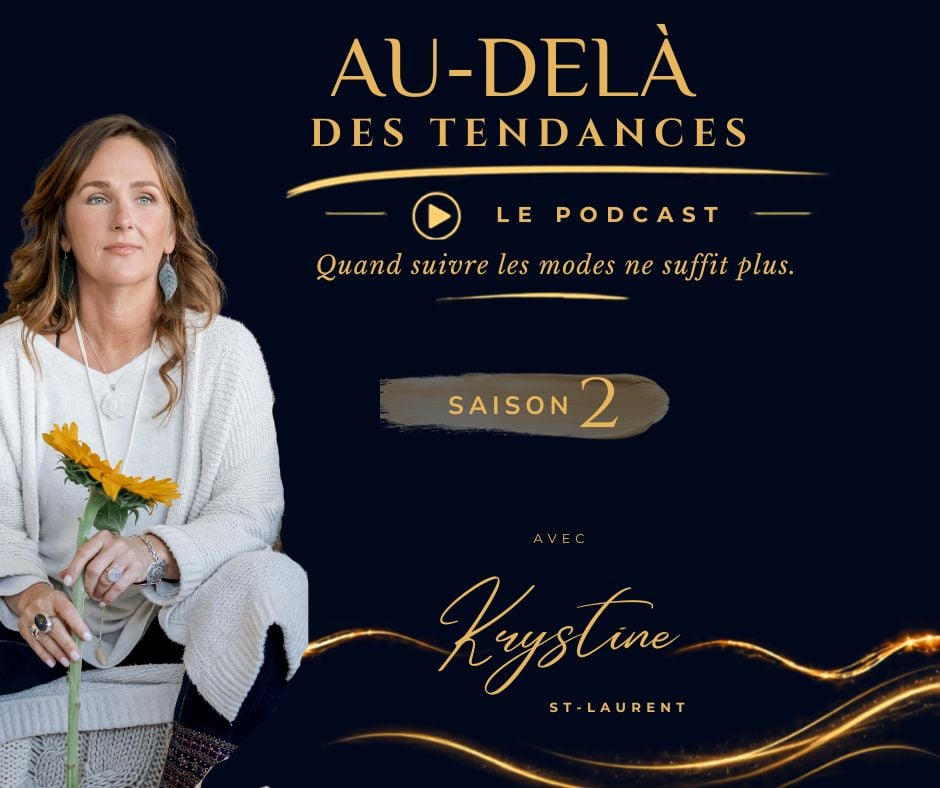
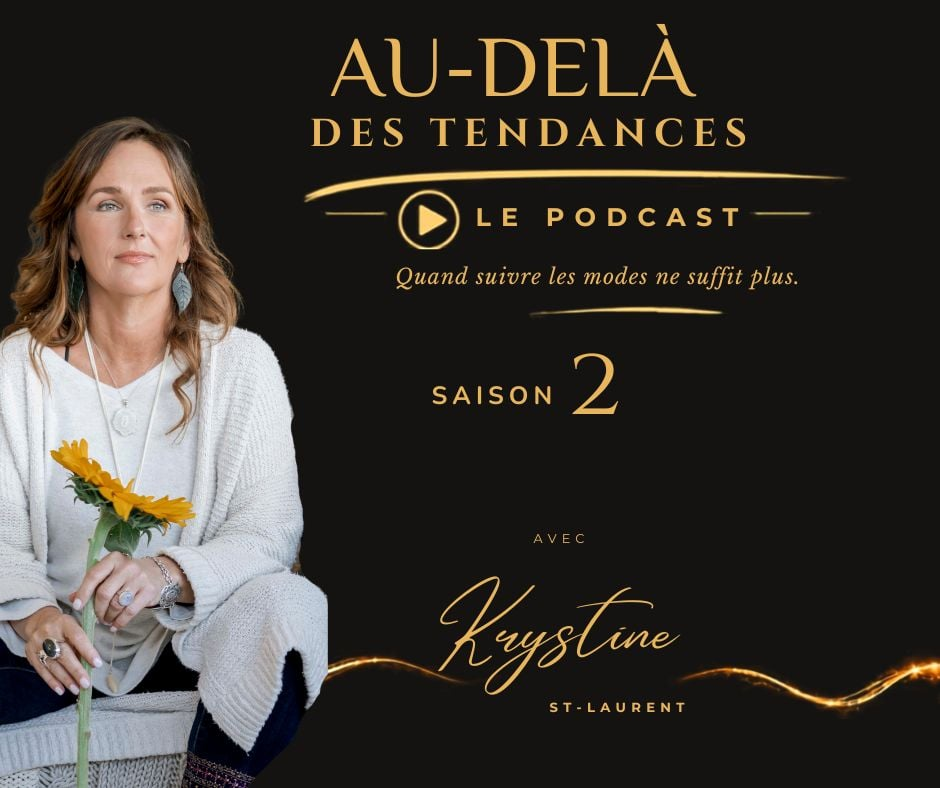
autosave: 2026-08-27 15:20:34

diff --git a/functions/src/newsletter/renderer.ts b/functions/src/newsletter/renderer.ts
@@ -1,6 +1,12 @@
-// Server-side email HTML renderer. Mirrors src/lib/newsletterRenderer.tsx —
-// keep them in sync when adding / tweaking block types. This file has NO
-// React dependency because it runs in a Node Cloud Function.
+// Rendu HTML des infolettres composées dans l'admin (blocs). Aucune
+// dépendance React : ce fichier tourne dans une Cloud Function.
+//
+// Le gabarit reprend celui des courriels du direct (live.ts) : couverture
+// noir + or « Au-delà des tendances » en pièce inline, bandeau noir chaud
+// avec le sujet, corps blanc pour les blocs, signature de Krystine, pied
+// ivoire. Les couleurs viennent du visuel officiel Saison 2 (27 août 2026).
+
+import { PUBLIC_BASE_URL } from './mail';
 
 export type BlockType = 'heading' | 'paragraph' | 'image' | 'button' | 'divider' | 'quote' | 'cta' | 'spacer';
 
@@ -9,14 +15,31 @@ export interface NewsletterBlock {
   content?: Record<string, any>;
 }
 
-const BRAND = {
-  gold: '#D4AF37',
-  royal: '#0B1A36',
-  cream: '#FEFBF4',
-  muted: 'rgba(11,26,54,0.7)',
-  serif: "'Cormorant Garamond', Georgia, serif",
-  sans: "'Inter', -apple-system, BlinkMacSystemFont, sans-serif",
+export const CHARTE = {
+  cream: '#EEE7DB',
+  ink: '#293027',
+  night: '#141311',
+  gold: '#e0b060',
+  goldInk: '#7d6330',
+  serif: "'Cormorant Garamond', Georgia, 'Times New Roman', serif",
+  sans: "'Inter', -apple-system, BlinkMacSystemFont, 'Segoe UI', Helvetica, Arial, sans-serif",
 };
+
+const COVER_URL = `${PUBLIC_BASE_URL}/podcast/live-cover.jpg`;
+const SIGNATURE_URL = 'https://storage.googleapis.com/inspirata/Vata/1%20(1).png';
+
+// Pièces inline : visibles même quand le client bloque les images distantes.
+export function newsletterAttachments() {
+  return [
+    { filename: 'couverture.jpg', href: COVER_URL, cid: 'cover' },
+    { filename: 'signature.png', href: SIGNATURE_URL, cid: 'signature' },
+  ];
+}
+
+// Pour l'aperçu dans l'admin (iframe), les cid: deviennent des URL publiques.
+export function inlineForPreview(html: string): string {
+  return html.replace(/cid:cover/g, COVER_URL).replace(/cid:signature/g, SIGNATURE_URL);
+}
 
 export interface RenderEmailOptions {
   subject: string;
@@ -24,7 +47,7 @@ export interface RenderEmailOptions {
   unsubscribeUrl: string;
   postalAddress: string;
   firstName?: string;
-  brandLogoUrl?: string;
+  showCover?: boolean;   // défaut : vrai
 }
 
 function esc(s: unknown): string {
@@ -39,6 +62,11 @@ function personalize(text: string, firstName?: string): string {
   return text.replace(/\{\{\s*firstName\s*\}\}/g, firstName || '');
 }
 
+// Paragraphes : les retours à la ligne du composeur deviennent des <br />.
+function nl2br(s: string): string {
+  return s.replace(/\r?\n/g, '<br />');
+}
+
 function blockToEmail(block: NewsletterBlock, firstName?: string): string {
   const c = (block.content || {}) as any;
   switch (block.type) {
@@ -47,53 +75,48 @@ function blockToEmail(block: NewsletterBlock, firstName?: string): string {
       const align = c.align === 'center' ? 'center' : 'left';
       const fontSize = level === 1 ? '32px' : level === 2 ? '26px' : '22px';
       const text = personalize(esc(c.text || ''), firstName);
-      return `<tr><td align="${align}" style="padding:18px 0;font-family:${BRAND.serif};font-size:${fontSize};line-height:1.15;color:${BRAND.royal};font-weight:500;">${text}</td></tr>`;
+      return `<tr><td align="${align}" style="padding:18px 0 10px;font-family:${CHARTE.serif};font-size:${fontSize};line-height:1.15;color:${CHARTE.ink};font-weight:500;">${text}</td></tr>`;
     }
     case 'paragraph': {
       const align = c.align === 'center' ? 'center' : 'left';
-      const text = personalize(esc(c.text || ''), firstName);
-      return `<tr><td align="${align}" style="padding:8px 0;font-family:${BRAND.sans};font-size:15px;line-height:1.65;color:${BRAND.muted};">${text}</td></tr>`;
+      const text = nl2br(personalize(esc(c.text || ''), firstName));
+      return `<tr><td align="${align}" style="padding:0 0 18px;font-family:${CHARTE.sans};font-size:16px;line-height:1.75;color:${CHARTE.ink};">${text}</td></tr>`;
     }
     case 'image': {
       if (!c.url) return '';
       const caption = c.caption
-        ? `<tr><td align="center" style="padding:8px 0;font-family:${BRAND.sans};font-size:11px;letter-spacing:0.2em;text-transform:uppercase;color:${BRAND.muted};">${esc(c.caption)}</td></tr>`
+        ? `<tr><td align="center" style="padding:8px 0 4px;font-family:${CHARTE.sans};font-size:10px;letter-spacing:0.28em;text-transform:uppercase;color:${CHARTE.goldInk};">${esc(c.caption)}</td></tr>`
         : '';
-      return `<tr><td style="padding:16px 0;"><img src="${esc(c.url)}" alt="${esc(c.alt || '')}" style="display:block;width:100%;max-width:560px;border-radius:16px;" /></td></tr>${caption}`;
+      return `<tr><td style="padding:10px 0 12px;"><img src="${esc(c.url)}" alt="${esc(c.alt || '')}" style="display:block;width:100%;max-width:520px;height:auto;border-radius:15px;" /></td></tr>${caption}`;
     }
     case 'button': {
       const primary = c.variant !== 'secondary';
-      const bg = primary ? BRAND.royal : 'transparent';
-      const fg = primary ? '#ffffff' : BRAND.royal;
-      const border = primary ? BRAND.royal : 'rgba(11,26,54,0.2)';
-      return `<tr><td align="center" style="padding:20px 0;">
-        <a href="${esc(c.href || '#')}" target="_blank"
-           style="display:inline-block;background:${bg};color:${fg};border:1px solid ${border};
-                  font-family:${BRAND.sans};font-size:11px;font-weight:700;letter-spacing:0.25em;
-                  text-transform:uppercase;text-decoration:none;padding:14px 28px;border-radius:999px;">
-          ${esc(c.label || 'En savoir plus')}
-        </a>
+      const style = primary
+        ? `background:${CHARTE.gold};color:${CHARTE.night};`
+        : `border:1px solid ${CHARTE.gold};color:${CHARTE.goldInk};`;
+      return `<tr><td style="padding:6px 0 22px;">
+        <a href="${esc(c.href || '#')}" target="_blank" style="display:inline-block;padding:15px 28px;border-radius:999px;font-family:${CHARTE.sans};font-size:12px;font-weight:700;letter-spacing:0.18em;text-transform:uppercase;text-decoration:none;${style}">${esc(c.label || 'En savoir plus')}</a>
       </td></tr>`;
     }
     case 'divider':
-      return `<tr><td style="padding:16px 0;"><div style="height:1px;background:linear-gradient(90deg,transparent,${BRAND.gold},transparent);"></div></td></tr>`;
+      return `<tr><td style="padding:10px 0 24px;"><div style="height:1px;width:64px;background:${CHARTE.gold};"></div></td></tr>`;
     case 'quote':
-      return `<tr><td style="padding:20px 0;">
+      return `<tr><td style="padding:6px 0 24px;">
         <table role="presentation" width="100%" cellpadding="0" cellspacing="0"><tr>
-          <td style="border-left:2px solid ${BRAND.gold};padding-left:18px;font-family:${BRAND.serif};font-style:italic;font-size:18px;line-height:1.5;color:${BRAND.royal};">
-            «&nbsp;${esc(c.text || '')}&nbsp;»
-            ${c.attribution ? `<div style="margin-top:10px;font-family:${BRAND.sans};font-style:normal;font-size:11px;letter-spacing:0.2em;text-transform:uppercase;color:${BRAND.gold};">— ${esc(c.attribution)}</div>` : ''}
+          <td style="border-left:2px solid ${CHARTE.gold};padding-left:18px;font-family:${CHARTE.serif};font-size:20px;line-height:1.45;color:${CHARTE.goldInk};">
+            «&nbsp;${personalize(esc(c.text || ''), firstName)}&nbsp;»
+            ${c.attribution ? `<div style="margin-top:10px;font-family:${CHARTE.sans};font-size:10px;letter-spacing:0.28em;text-transform:uppercase;color:${CHARTE.goldInk};">${esc(c.attribution)}</div>` : ''}
           </td>
         </tr></table>
       </td></tr>`;
     case 'cta':
-      return `<tr><td style="padding:20px 0;">
-        <table role="presentation" width="100%" cellpadding="0" cellspacing="0" style="background:${BRAND.royal};border-radius:16px;border:1px solid rgba(212,175,55,0.2);">
-          <tr><td align="center" style="padding:32px 24px;color:#ffffff;">
-            ${c.eyebrow ? `<div style="font-family:${BRAND.sans};font-size:10px;letter-spacing:0.3em;text-transform:uppercase;color:${BRAND.gold};margin-bottom:10px;font-weight:700;">${esc(c.eyebrow)}</div>` : ''}
-            ${c.title ? `<div style="font-family:${BRAND.serif};font-size:26px;line-height:1.2;margin-bottom:10px;">${esc(c.title)}</div>` : ''}
-            ${c.body ? `<div style="font-family:${BRAND.sans};font-size:14px;line-height:1.6;color:rgba(255,255,255,0.75);margin-bottom:22px;">${esc(c.body)}</div>` : ''}
-            ${(c.href && c.buttonLabel) ? `<a href="${esc(c.href)}" target="_blank" style="display:inline-block;background:${BRAND.gold};color:${BRAND.royal};font-family:${BRAND.sans};font-size:11px;font-weight:700;letter-spacing:0.25em;text-transform:uppercase;text-decoration:none;padding:14px 28px;border-radius:999px;">${esc(c.buttonLabel)}</a>` : ''}
+      return `<tr><td style="padding:6px 0 26px;">
+        <table role="presentation" width="100%" cellpadding="0" cellspacing="0" style="background:${CHARTE.night};border-radius:15px;">
+          <tr><td style="padding:30px 32px;">
+            ${c.eyebrow ? `<div style="font-family:${CHARTE.sans};font-size:11px;letter-spacing:0.3em;text-transform:uppercase;color:${CHARTE.gold};margin-bottom:12px;font-weight:600;">${esc(c.eyebrow)}</div>` : ''}
+            ${c.title ? `<div style="font-family:${CHARTE.serif};font-size:28px;line-height:1.1;color:${CHARTE.cream};margin-bottom:12px;">${esc(c.title)}</div>` : ''}
+            ${c.body ? `<div style="font-family:${CHARTE.sans};font-size:14px;line-height:1.7;color:rgba(238,231,219,0.7);margin-bottom:22px;">${nl2br(esc(c.body))}</div>` : ''}
+            ${(c.href && c.buttonLabel) ? `<a href="${esc(c.href)}" target="_blank" style="display:inline-block;background:${CHARTE.gold};color:${CHARTE.night};font-family:${CHARTE.sans};font-size:12px;font-weight:700;letter-spacing:0.18em;text-transform:uppercase;text-decoration:none;padding:15px 28px;border-radius:999px;">${esc(c.buttonLabel)}</a>` : ''}
           </td></tr>
         </table>
       </td></tr>`;
@@ -108,34 +131,40 @@ function blockToEmail(block: NewsletterBlock, firstName?: string): string {
 
 export function renderEmailHtml(blocks: NewsletterBlock[], opts: RenderEmailOptions): string {
   const blockRows = blocks.map(b => blockToEmail(b, opts.firstName)).join('\n');
-  const preheader = opts.preheader
-    ? `<div style="display:none;max-height:0;overflow:hidden;opacity:0;mso-hide:all;font-size:1px;color:transparent;line-height:1px;">${esc(opts.preheader)}</div>`
-    : '';
-  const logo = opts.brandLogoUrl
-    ? `<tr><td align="center" style="padding:24px 0 8px;"><img src="${esc(opts.brandLogoUrl)}" alt="Inspirata" style="height:48px;width:auto;display:inline-block;" /></td></tr>`
-    : '';
+  const showCover = opts.showCover !== false;
 
   return `<!doctype html>
 <html lang="fr">
-<head>
-  <meta charset="utf-8" />
-  <meta name="viewport" content="width=device-width,initial-scale=1" />
-  <title>${esc(opts.subject)}</title>
-</head>
-<body style="margin:0;padding:0;background:${BRAND.cream};">
-  ${preheader}
-  <table role="presentation" width="100%" cellpadding="0" cellspacing="0" style="background:${BRAND.cream};padding:32px 16px;">
+<head><meta charset="utf-8" /><meta name="viewport" content="width=device-width,initial-scale=1" /><title>${esc(opts.subject)}</title></head>
+<body style="margin:0;padding:0;background:${CHARTE.cream};">
+  <div style="display:none;max-height:0;overflow:hidden;opacity:0;mso-hide:all;font-size:1px;color:transparent;line-height:1px;">${esc(opts.preheader || '')}</div>
+  <table role="presentation" width="100%" cellpadding="0" cellspacing="0" style="background:${CHARTE.cream};padding:36px 16px;">
     <tr><td align="center">
-      <table role="presentation" width="600" cellpadding="0" cellspacing="0" style="max-width:600px;background:#ffffff;border-radius:24px;overflow:hidden;box-shadow:0 4px 24px rgba(11,26,54,0.08);">
-        ${logo}
-        <tr><td style="padding:16px 36px 40px;">
+      <table role="presentation" width="600" cellpadding="0" cellspacing="0" style="max-width:600px;">
+
+        ${showCover ? `<tr><td style="padding:0;border-radius:15px 15px 0 0;overflow:hidden;background:${CHARTE.night};">
+          <img src="cid:cover" width="600" alt="Au-delà des tendances, avec Krystine St-Laurent" style="display:block;width:100%;max-width:600px;height:auto;border-radius:15px 15px 0 0;" />
+        </td></tr>` : ''}
+
+        <tr><td style="background:${CHARTE.night};padding:30px 40px 28px;${showCover ? '' : 'border-radius:15px 15px 0 0;'}">
           <table role="presentation" width="100%" cellpadding="0" cellspacing="0">
-            ${blockRows}
+            <tr><td style="padding:0 0 18px;font-family:${CHARTE.sans};font-size:11px;letter-spacing:0.3em;text-transform:uppercase;color:${CHARTE.gold};font-weight:600;">Infolettre</td></tr>
+            <tr><td style="padding:0 0 20px;font-family:${CHARTE.serif};font-size:34px;line-height:1.08;color:${CHARTE.cream};font-weight:500;">${esc(opts.subject)}</td></tr>
+            <tr><td><div style="height:1px;width:64px;background:${CHARTE.gold};"></div></td></tr>
           </table>
         </td></tr>
-        <tr><td style="padding:24px 36px;border-top:1px solid rgba(11,26,54,0.08);font-family:${BRAND.sans};font-size:11px;line-height:1.6;color:rgba(11,26,54,0.5);">
+
+        <tr><td style="background:#ffffff;padding:40px 40px 14px;border-left:1px solid rgba(41,48,39,0.08);border-right:1px solid rgba(41,48,39,0.08);">
+          <table role="presentation" width="100%" cellpadding="0" cellspacing="0">
+            ${blockRows}
+            <tr><td style="padding:6px 0 8px;"><img src="cid:signature" width="170" alt="Krystine St-Laurent" style="display:block;width:170px;height:auto;" /></td></tr>
+          </table>
+        </td></tr>
+
+        <tr><td style="background:${CHARTE.cream};padding:26px 40px 8px;border-radius:0 0 15px 15px;border:1px solid rgba(41,48,39,0.08);border-top:0;font-family:${CHARTE.sans};font-size:11px;line-height:1.6;color:rgba(41,48,39,0.6);">
+          <div style="font-family:${CHARTE.sans};font-size:10px;letter-spacing:0.28em;text-transform:uppercase;color:${CHARTE.goldInk};padding-bottom:10px;">Nourrir et soigner &middot; Corps et conscience &middot; Science et sagesses</div>
           <div style="margin-bottom:8px;">${esc(opts.postalAddress)}</div>
-          <div><a href="${esc(opts.unsubscribeUrl)}" style="color:${BRAND.gold};text-decoration:underline;">Se désabonner</a> · <a href="https://www.krystinestlaurent.ca/politique-de-confidentialite" style="color:${BRAND.gold};text-decoration:underline;">Politique de confidentialité</a></div>
+          <div style="padding-bottom:18px;"><a href="${esc(opts.unsubscribeUrl)}" style="color:${CHARTE.goldInk};text-decoration:underline;">Se désabonner</a> · <a href="${PUBLIC_BASE_URL}/politique-de-confidentialite" style="color:${CHARTE.goldInk};text-decoration:underline;">Politique de confidentialité</a></div>
         </td></tr>
       </table>
     </td></tr>
@@ -155,18 +184,18 @@ export function renderEmailText(blocks: NewsletterBlock[], opts: RenderEmailOpti
         if (c.text) lines.push(personalize(c.text, opts.firstName));
         break;
       case 'button':
-        if (c.label && c.href) lines.push(`${c.label}: ${c.href}`);
+        if (c.label && c.href) lines.push(`${c.label} : ${c.href}`);
         break;
       case 'cta':
         if (c.title) lines.push(c.title);
-        if (c.body)  lines.push(c.body);
-        if (c.href && c.buttonLabel) lines.push(`${c.buttonLabel}: ${c.href}`);
+        if (c.body) lines.push(c.body);
+        if (c.href && c.buttonLabel) lines.push(`${c.buttonLabel} : ${c.href}`);
         break;
       case 'divider':
         lines.push('---');
         break;
     }
   }
-  lines.push('', opts.postalAddress, `Se désabonner: ${opts.unsubscribeUrl}`);
+  lines.push('Krystine St-Laurent', '', opts.postalAddress, `Se désabonner : ${opts.unsubscribeUrl}`);
   return lines.join('\n\n');
 }

diff --git a/functions/src/newsletter/live.ts b/functions/src/newsletter/live.ts
@@ -44,8 +44,9 @@ const TZ = 'America/Toronto';
 const CHARTE = {
   cream: '#EEE7DB',
   ink: '#293027',
-  night: '#161311',
-  gold: '#c8a86a',
+  night: '#141311',
+  gold: '#e0b060',
+  goldInk: '#7d6330',
   amber: '#BA7B39',
   copper: '#8B4A2F',
   serif: "'Cormorant Garamond', Georgia, 'Times New Roman', serif",
@@ -177,7 +178,7 @@ export function renderLiveHtml(m: Mail, opts: { unsubscribeUrl: string; postalAd
   const p = (t: string) =>
     `<tr><td style="padding:0 0 18px;font-family:${CHARTE.sans};font-size:16px;line-height:1.75;color:${CHARTE.ink};">${esc(t)}</td></tr>`;
   const btn = (c: { label: string; url: string }, primary: boolean) =>
-    `<a href="${esc(c.url)}" style="display:inline-block;margin:0 10px 10px 0;padding:15px 28px;border-radius:999px;font-family:${CHARTE.sans};font-size:12px;font-weight:700;letter-spacing:0.18em;text-transform:uppercase;text-decoration:none;${primary ? `background:${CHARTE.amber};color:${CHARTE.ink};` : `border:1px solid ${CHARTE.amber};color:${CHARTE.copper};`}">${esc(c.label)}</a>`;
+    `<a href="${esc(c.url)}" style="display:inline-block;margin:0 10px 10px 0;padding:15px 28px;border-radius:999px;font-family:${CHARTE.sans};font-size:12px;font-weight:700;letter-spacing:0.18em;text-transform:uppercase;text-decoration:none;${primary ? `background:${CHARTE.gold};color:${CHARTE.night};` : `border:1px solid ${CHARTE.gold};color:${CHARTE.goldInk};`}">${esc(c.label)}</a>`;
 
   const ev = opts.ev;
   const start = ev ? ev.startsAt.toDate() : null;
@@ -186,7 +187,7 @@ export function renderLiveHtml(m: Mail, opts: { unsubscribeUrl: string; postalAd
   const heureFr = start ? fmtTime(start, 'Europe/Paris') : '';
   const cell = (label: string, big: string, small?: string) =>
     `<td valign="top" style="padding:0 24px 0 0;">
-      <div style="font-family:${CHARTE.sans};font-size:10px;letter-spacing:0.28em;text-transform:uppercase;color:${CHARTE.amber};padding-bottom:6px;">${esc(label)}</div>
+      <div style="font-family:${CHARTE.sans};font-size:10px;letter-spacing:0.28em;text-transform:uppercase;color:${CHARTE.gold};padding-bottom:6px;">${esc(label)}</div>
       <div style="font-family:${CHARTE.serif};font-size:24px;line-height:1.15;color:${CHARTE.cream};">${esc(big)}</div>
       ${small ? `<div style="font-family:${CHARTE.serif};font-size:17px;line-height:1.3;color:rgba(238,231,219,0.65);">${esc(small)}</div>` : ''}
     </td>`;
@@ -201,16 +202,16 @@ export function renderLiveHtml(m: Mail, opts: { unsubscribeUrl: string; postalAd
       <table role="presentation" width="600" cellpadding="0" cellspacing="0" style="max-width:600px;">
 
         <!-- Couverture du podcast (carte du moodboard KSL) -->
-        <tr><td style="padding:0;border-radius:15px 15px 0 0;overflow:hidden;background:#1c1a17;">
+        <tr><td style="padding:0;border-radius:15px 15px 0 0;overflow:hidden;background:${CHARTE.night};">
           <img src="cid:cover" width="600" alt="Au-delà des tendances, le podcast avec Krystine St-Laurent" style="display:block;width:100%;max-width:600px;height:auto;border-radius:15px 15px 0 0;" />
         </td></tr>
 
-        <!-- Bandeau vert profond : le rendez-vous -->
+        <!-- Bandeau noir chaud + or (visuel Saison 2) : le rendez-vous -->
         <tr><td style="background:${CHARTE.night};padding:30px 40px 28px;">
           <table role="presentation" width="100%" cellpadding="0" cellspacing="0">
-            <tr><td style="padding:0 0 18px;font-family:${CHARTE.sans};font-size:11px;letter-spacing:0.3em;text-transform:uppercase;color:${CHARTE.amber};font-weight:600;">&#9679;&nbsp; En direct sur YouTube</td></tr>
+            <tr><td style="padding:0 0 18px;font-family:${CHARTE.sans};font-size:11px;letter-spacing:0.3em;text-transform:uppercase;color:${CHARTE.gold};font-weight:600;">&#9679;&nbsp; En direct sur YouTube</td></tr>
             <tr><td style="padding:0 0 20px;font-family:${CHARTE.serif};font-size:34px;line-height:1.08;color:${CHARTE.cream};font-weight:500;">${esc(m.subject)}</td></tr>
-            <tr><td style="padding:0 0 22px;"><div style="height:1px;width:64px;background:${CHARTE.amber};"></div></td></tr>
+            <tr><td style="padding:0 0 22px;"><div style="height:1px;width:64px;background:${CHARTE.gold};"></div></td></tr>
             ${start ? `<tr><td><table role="presentation" cellpadding="0" cellspacing="0"><tr>${cell('Date', jour.charAt(0).toUpperCase() + jour.slice(1))}${cell('Heure', `${heureQc} · Québec`, `${heureFr} · France`)}</tr></table></td></tr>` : ''}
           </table>
         </td></tr>
@@ -224,11 +225,11 @@ export function renderLiveHtml(m: Mail, opts: { unsubscribeUrl: string; postalAd
               <table role="presentation" width="100%" cellpadding="0" cellspacing="0">
                 <tr>
                   <td width="96" valign="middle" style="padding:0 18px 14px 0;"><img src="cid:portrait" width="96" height="96" alt="Krystine St-Laurent" style="display:block;width:96px;height:96px;object-fit:cover;border-radius:50%;" /></td>
-                  <td valign="middle" style="padding:0 0 14px;font-family:${CHARTE.serif};font-size:20px;line-height:1.35;color:${CHARTE.copper};">Au micro&nbsp;: Krystine St-Laurent</td>
+                  <td valign="middle" style="padding:0 0 14px;font-family:${CHARTE.serif};font-size:20px;line-height:1.35;color:${CHARTE.goldInk};">Au micro&nbsp;: Krystine St-Laurent</td>
                 </tr>
                 <tr><td colspan="2" style="font-family:${CHARTE.sans};font-size:14px;line-height:1.75;color:${CHARTE.ink};">
                   <p style="margin:0 0 12px;">Pr&egrave;s de 40 ans &agrave; relier ce que nous avons appris &agrave; s&eacute;parer&nbsp;:</p>
-                  <p style="margin:0 0 12px;font-family:${CHARTE.serif};font-size:16px;color:${CHARTE.copper};">Nourrir et soigner. Corps et conscience. Science et sagesses.</p>
+                  <p style="margin:0 0 12px;font-family:${CHARTE.serif};font-size:16px;color:${CHARTE.goldInk};">Nourrir et soigner. Corps et conscience. Science et sagesses.</p>
                   <p style="margin:0 0 12px;">Des soins infirmiers et de la recherche clinique &agrave; l&rsquo;Ayurveda, aux plantes m&eacute;dicinales, &agrave; l&rsquo;&eacute;criture et &agrave; la transmission, le m&ecirc;me fil traverse son &oelig;uvre.</p>
                   <p style="margin:0 0 12px;">Douze ann&eacute;es de recherche et d&rsquo;&eacute;criture. Pr&egrave;s de 1&nbsp;200 pages. Une trilogie.</p>
                   <p style="margin:0;">Conf&eacute;renci&egrave;re internationale, autrice &agrave; succ&egrave;s et fondatrice d&rsquo;INSPIRATA Ayurveda.</p>
@@ -242,9 +243,9 @@ export function renderLiveHtml(m: Mail, opts: { unsubscribeUrl: string; postalAd
 
         <!-- Pied -->
         <tr><td style="background:${CHARTE.cream};padding:26px 40px 8px;border-radius:0 0 15px 15px;border:1px solid rgba(41,48,39,0.08);border-top:0;font-family:${CHARTE.sans};font-size:11px;line-height:1.6;color:rgba(41,48,39,0.6);">
-          <div style="font-family:${CHARTE.sans};font-size:10px;letter-spacing:0.28em;text-transform:uppercase;color:${CHARTE.copper};padding-bottom:10px;">Nourrir et soigner &middot; Corps et conscience &middot; Science et sagesses</div>
+          <div style="font-family:${CHARTE.sans};font-size:10px;letter-spacing:0.28em;text-transform:uppercase;color:${CHARTE.goldInk};padding-bottom:10px;">Nourrir et soigner &middot; Corps et conscience &middot; Science et sagesses</div>
           <div style="margin-bottom:8px;">${esc(opts.postalAddress)}</div>
-          <div style="padding-bottom:18px;"><a href="${esc(opts.unsubscribeUrl)}" style="color:${CHARTE.copper};text-decoration:underline;">Se désabonner</a> · <a href="${PUBLIC_BASE_URL}/politique-de-confidentialite" style="color:${CHARTE.copper};text-decoration:underline;">Politique de confidentialité</a></div>
+          <div style="padding-bottom:18px;"><a href="${esc(opts.unsubscribeUrl)}" style="color:${CHARTE.goldInk};text-decoration:underline;">Se désabonner</a> · <a href="${PUBLIC_BASE_URL}/politique-de-confidentialite" style="color:${CHARTE.goldInk};text-decoration:underline;">Politique de confidentialité</a></div>
         </td></tr>
       </table>
     </td></tr>
